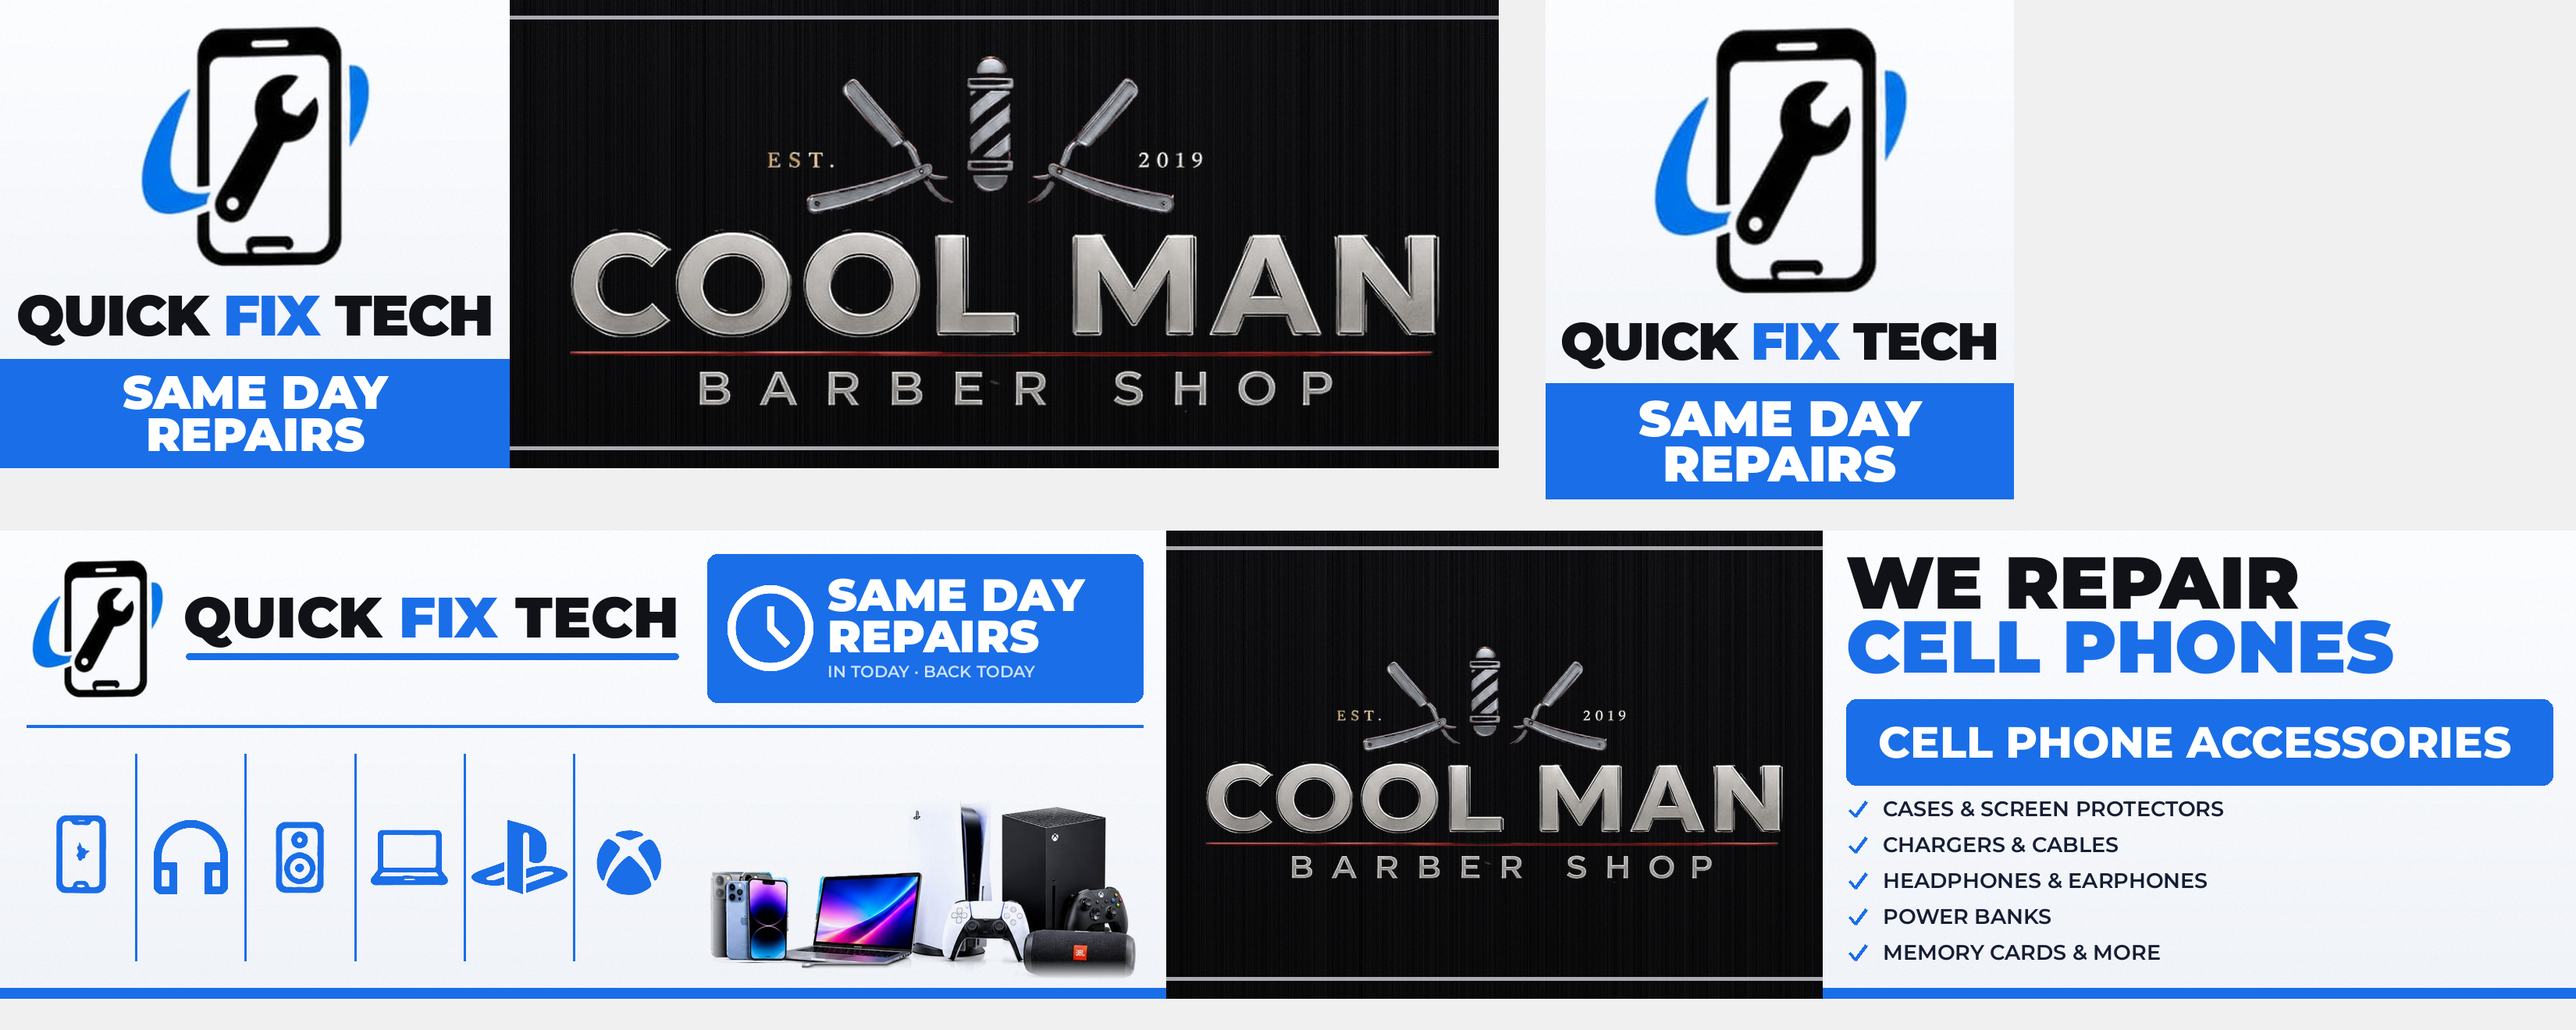
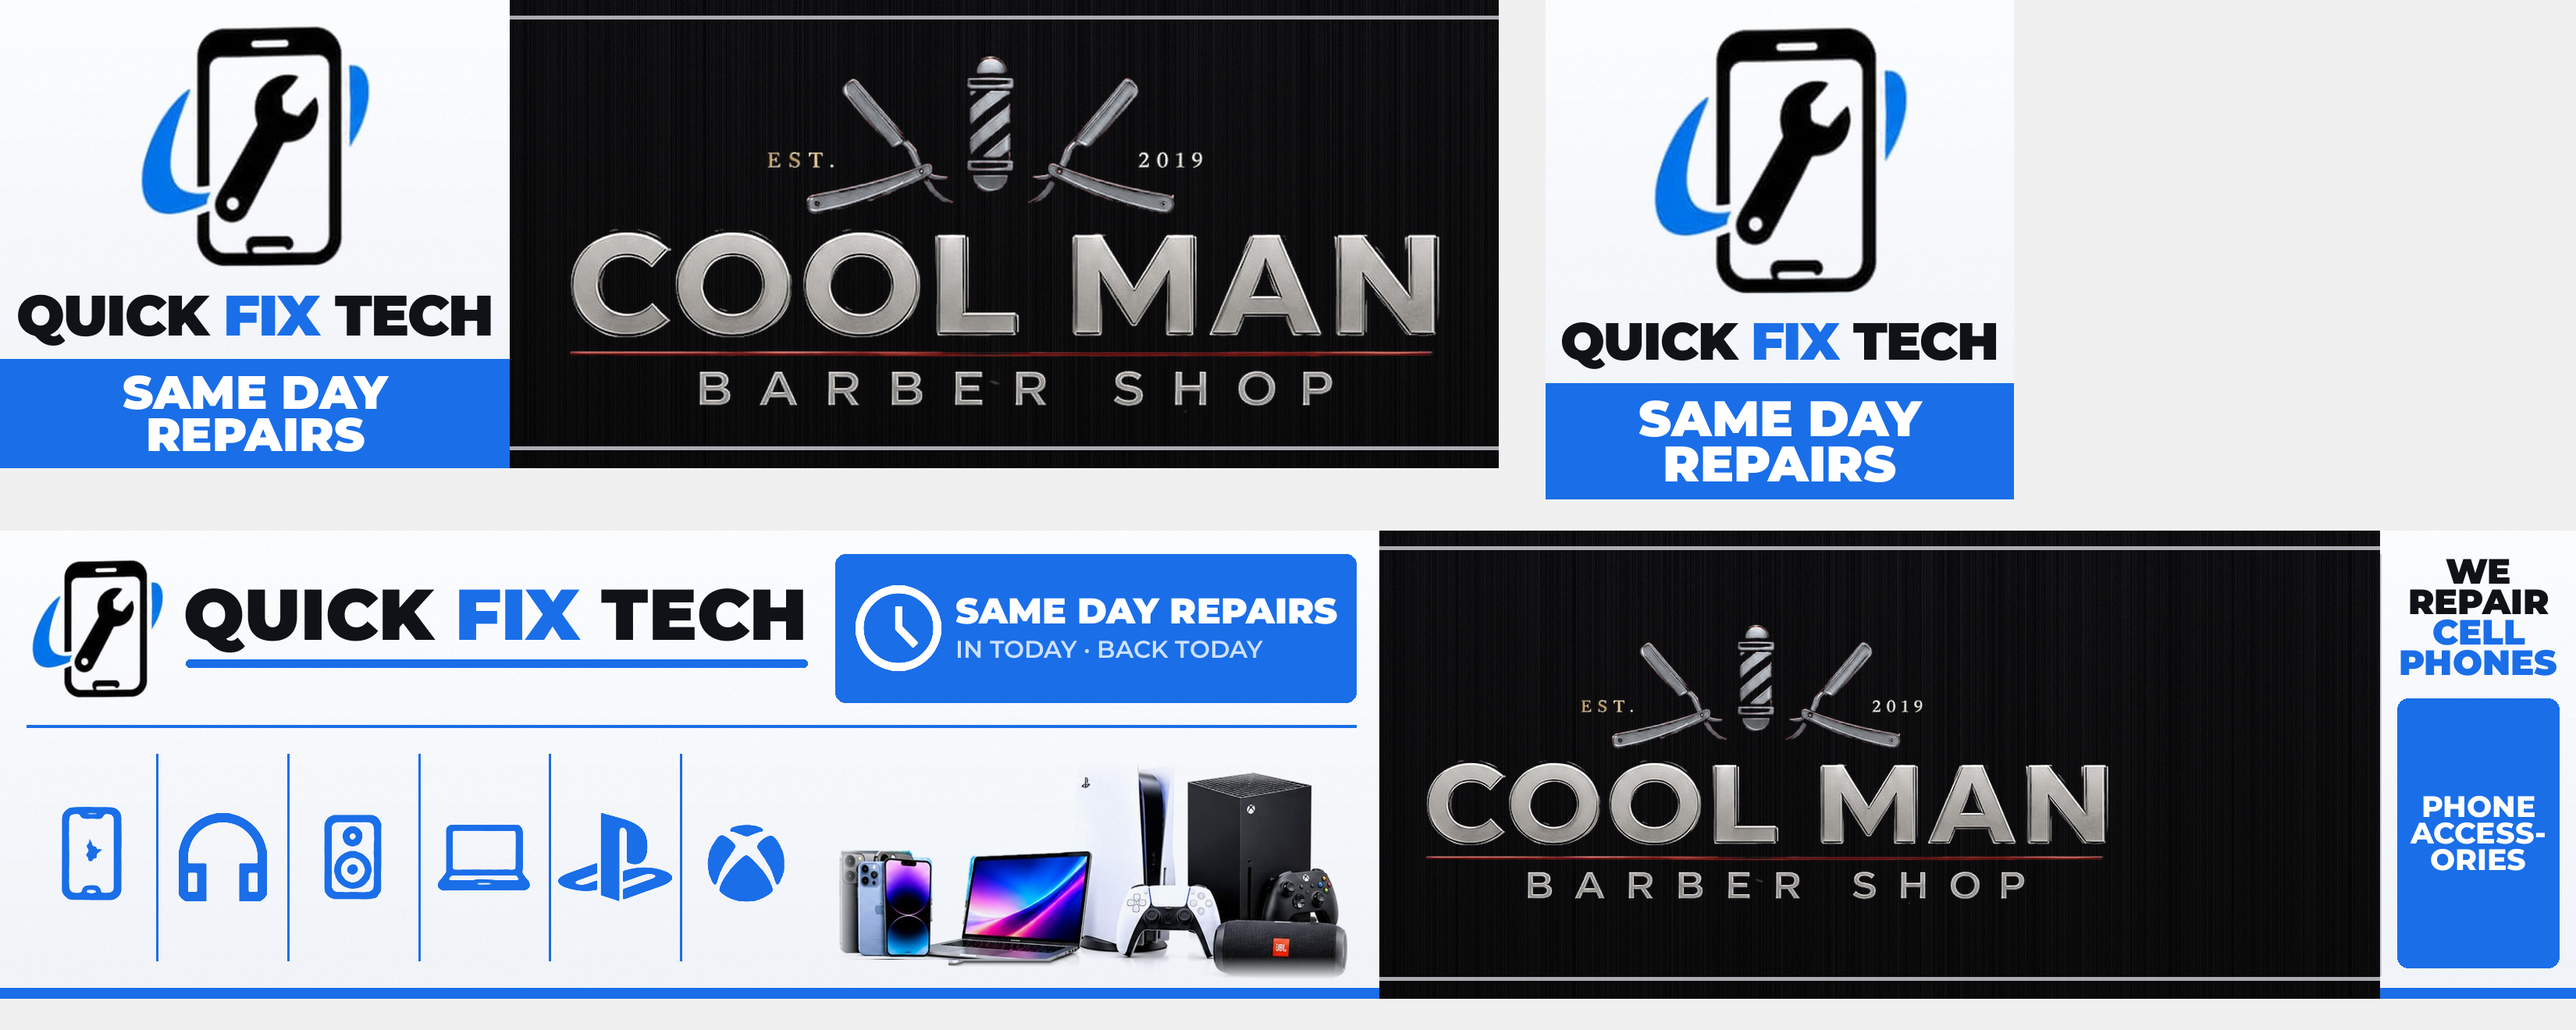
Version 5: keep the alternating layout, add headline and accessories past the pole
Claude-Session: https://claude.ai/code/session_013KRwQLAxoZ4CUmAfzsxCfh

Changed region(s): [[0.0, 0.497, 0.9988, 0.9939]]

diff --git a/signage-concepts/source/signs_both.py b/signage-concepts/source/signs_both.py
@@ -145,8 +145,25 @@ VARIANTS = [
 
 FX = lambda px: flat_x(px, RIGHT_Q, *RIGHT_WH) / RIGHT_WH[0]
 EX0 = FX(1636)                                           # extras start just left of the pole and run behind it
-VARIANTS.append(("alternating-plus", "Alternating + headline and accessories at the far end, partly behind the pole",
-                 [("badge", 0.34), ("cm", 0.66)], [("qf", EX0*0.64), ("cm", EX0*0.36), ("extras", 1 - EX0)], "full"))
+def tail_extras(rf):
+    """Fill the strip right of the pole with the headline + accessories, leaving the rest of the layout untouched."""
+    x0 = flat_x(POLE_X[1] + 4, RIGHT_Q, *RIGHT_WH); w = RIGHT_WH[0] - x0
+    h = RIGHT_WH[1]; seg = white(w, h); d = ImageDraw.Draw(seg); m = 22
+    head = ["WE", "REPAIR", "CELL", "PHONES"]
+    fh = qp.mont_fit(head, w - 2*m, 300, 900, 0.22)
+    hb = qp.block_h(fh, 4, 0.22)
+    qp.text_block(d, head, fh, 0, 36, [INK, INK, QBLUE, QBLUE], gap=0.22, align="c", width=w)
+    bt = 36 + hb + 30; bb = h - 40
+    d.rounded_rectangle((m, bt, w - m, bb), radius=14, fill=QBLUE)
+    acc = ["PHONE", "ACCESS-", "ORIES"]
+    fa = qp.mont_fit(acc, w - 2*m - 30, bb - bt - 40, 800, 0.25)
+    qp.text_block(d, acc, fa, m, bt + (bb - bt - qp.block_h(fa, 3, 0.25))/2, qp.WHITE, gap=0.25, align="c", width=w - 2*m)
+    strip(seg, 0, w)
+    ImageDraw.Draw(seg).line([(0, 30), (0, RIGHT_WH[1] - 30)], fill=(200, 205, 215), width=3)
+    rf.paste(seg, (x0, 0)); return rf
+
+VARIANTS.append(("alternating-plus", "Alternating + headline and accessories past the pole",
+                 [("badge", 0.34), ("cm", 0.66)], [("qf", 0.64), ("cm", 0.36)], "tail"))
 ONLY = os.environ.get("ONLY")
 
 photo = Image.open(PHOTO).convert("RGB")
@@ -155,7 +172,8 @@ paths = []
 for i, (slug, title, left_segs, right_segs, *opt) in enumerate(VARIANTS, 1):
     if ONLY and slug != ONLY: continue
     lf = compose(*RED_WH, left_segs)
-    rf = compose(*RIGHT_WH, right_segs, usable=None if opt else CW)
+    rf = compose(*RIGHT_WH, right_segs, usable=CW)
+    if opt and opt[0] == "tail": rf = tail_extras(rf)
     img = place(photo, lf, RED_Q, light=1.0, warm=(1.03, 1.0, .96), texture=0.03)
     img = place(img.convert("RGB"), corner, BLUE_Q, light=.97, warm=(1.03, 1.0, .96), texture=0.03)
     img = place(img.convert("RGB"), rf, RIGHT_Q, light=.86, warm=(.95, .97, 1.03), texture=0.015)
